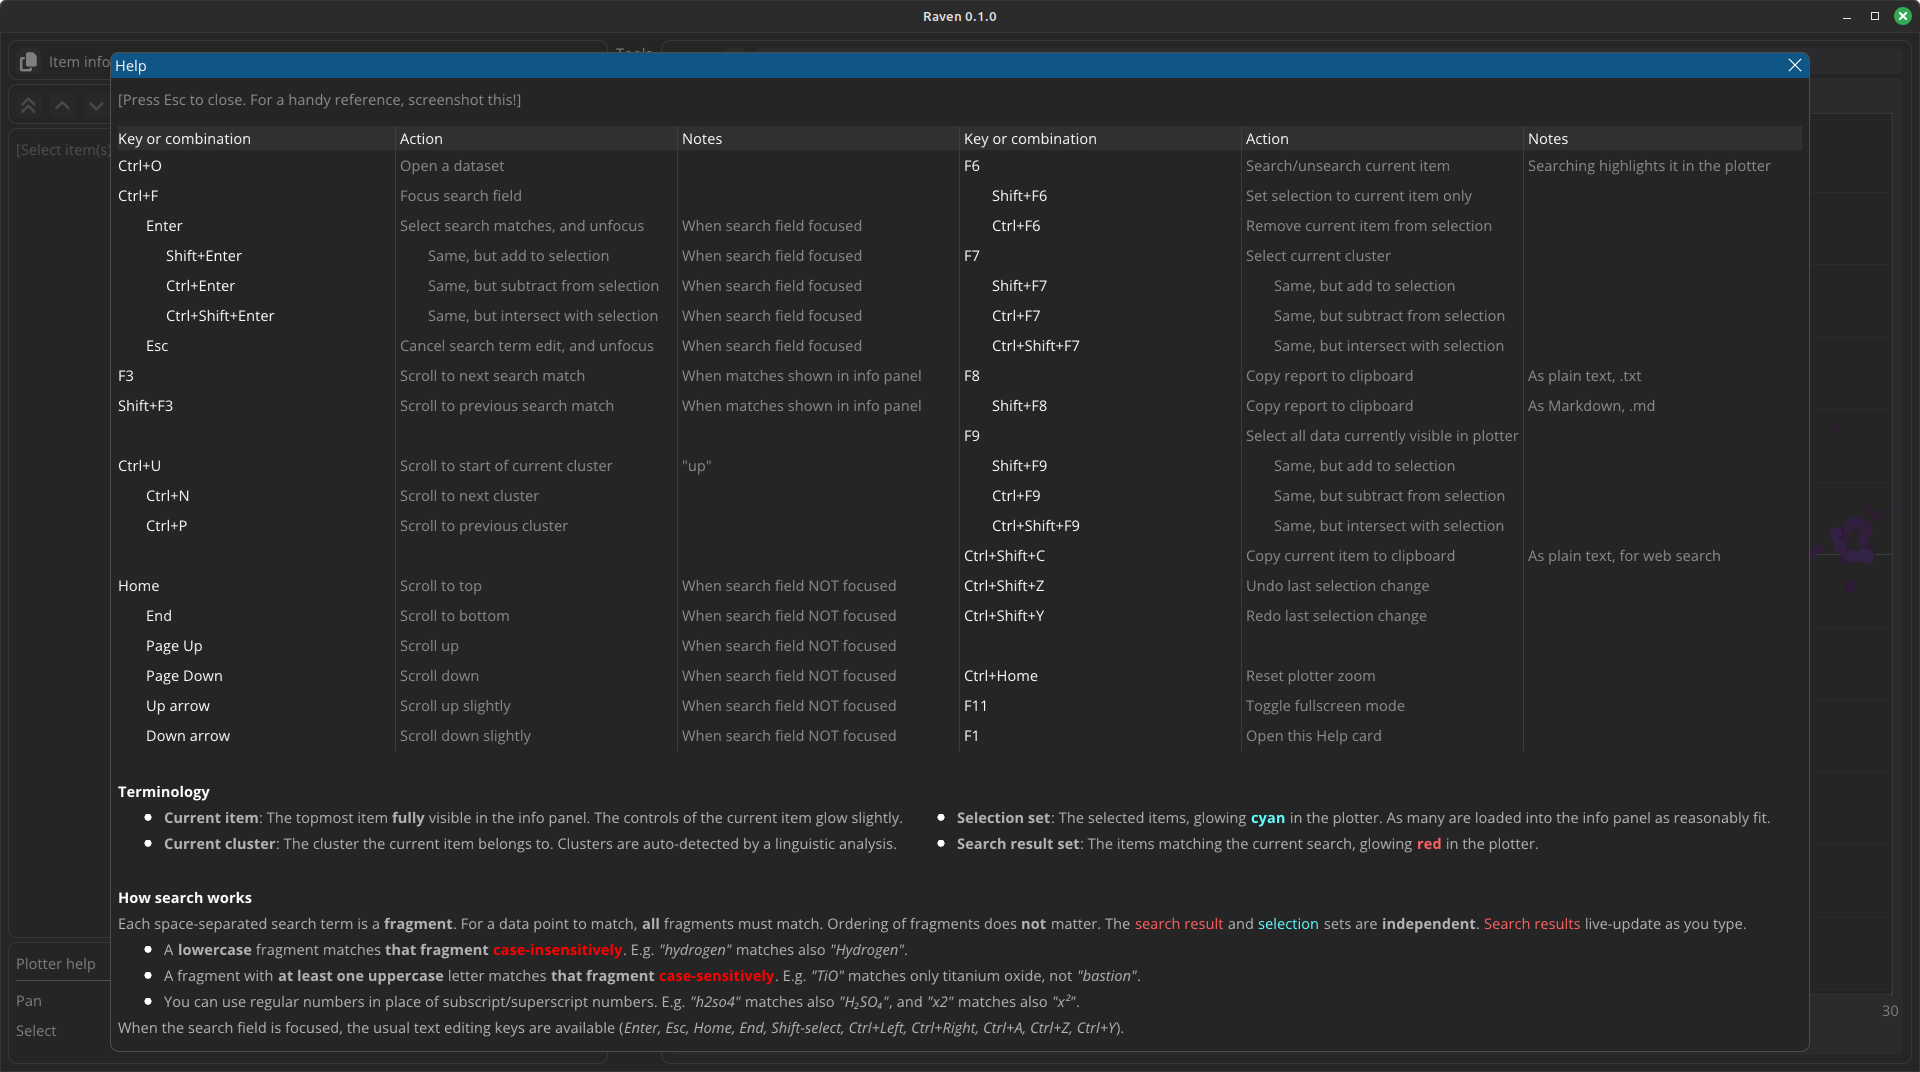
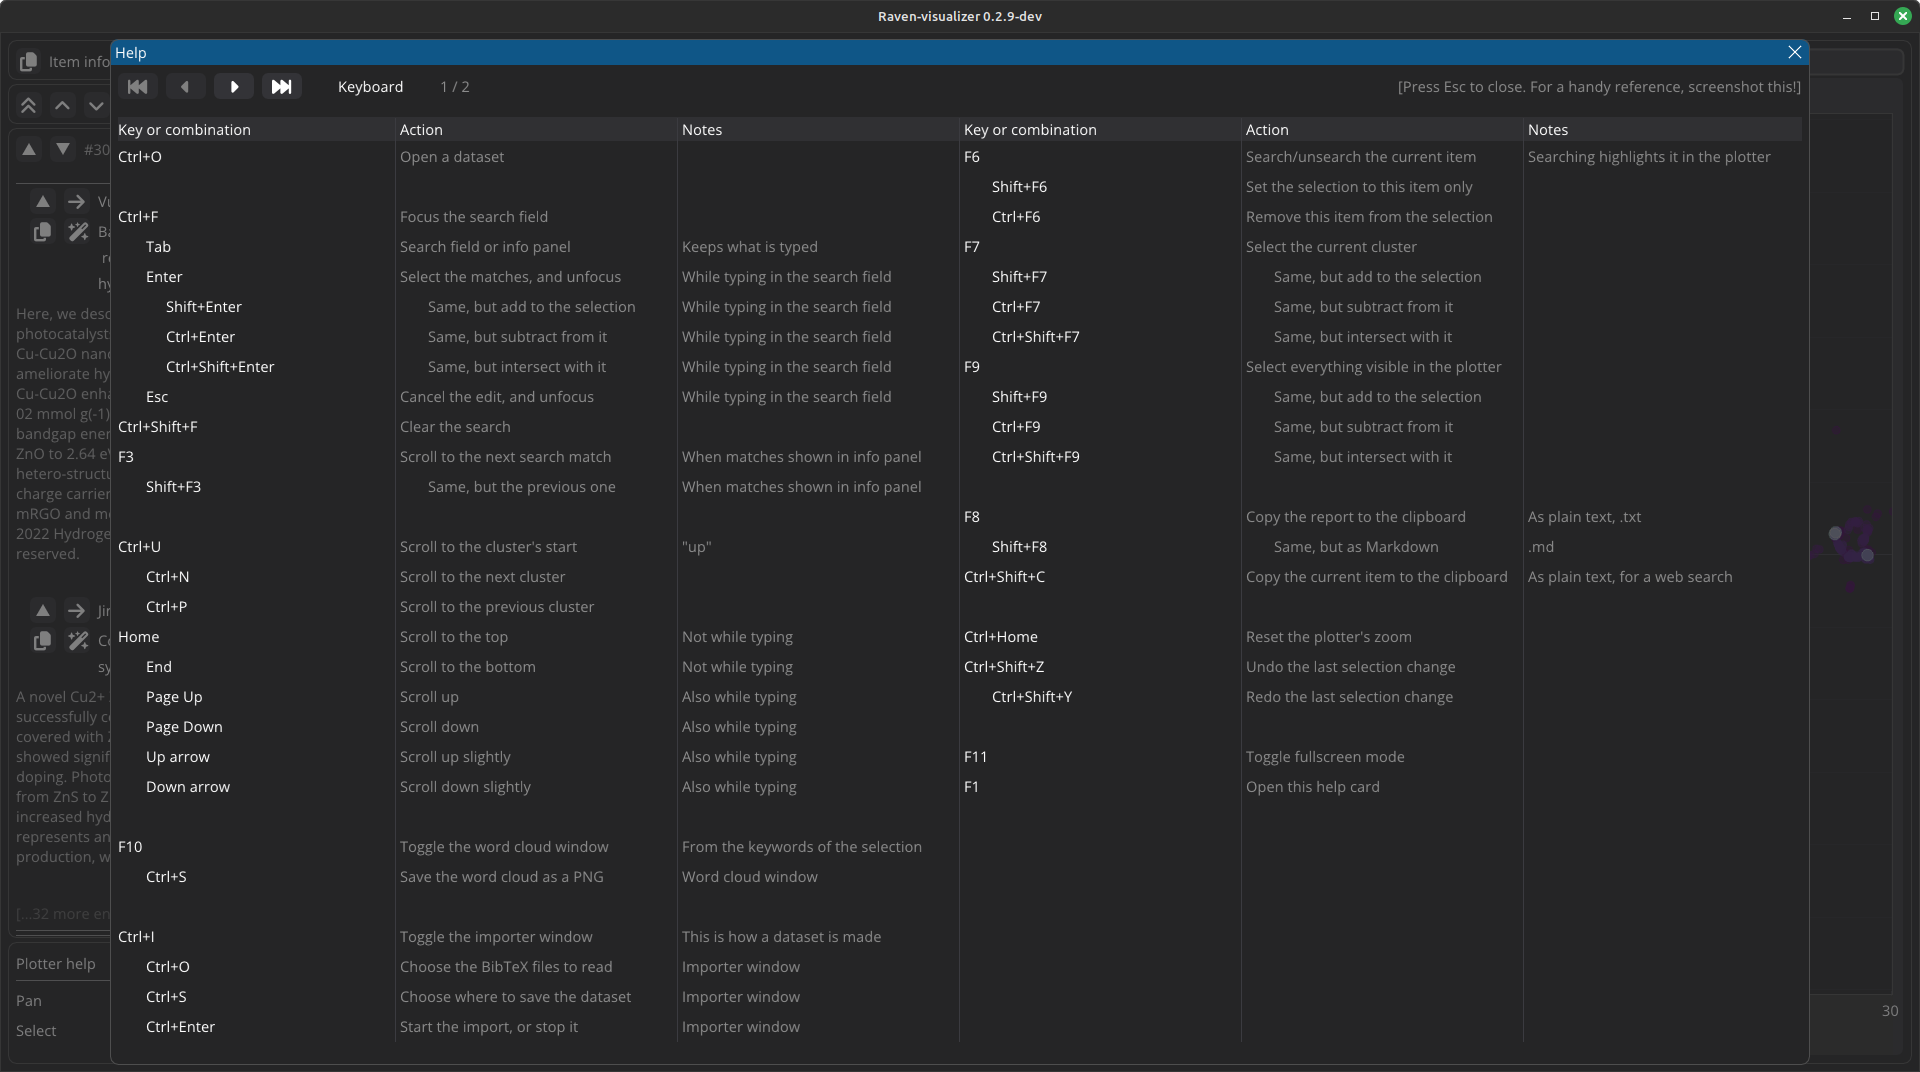
Visualizer manual: refreshed help card; the file dialog documented once
The help card screenshot is retaken. The three screenshots of the file
dialog (opening a dataset, choosing BibTeX files, saving the dataset) are
replaced by a link to the file dialog's own manual, which shows it
properly, and removed from img/.

diff --git a/raven/visualizer/README.md b/raven/visualizer/README.md
@@ -122,12 +122,7 @@ Pressing the Ctrl+I hotkey again closes the window.
 
 ### Save imported dataset as
 
-Click on the hard disk icon (next to the heading "*Output dataset file*") in the *BibTeX import window*, or press Ctrl+S while the *BibTeX import window* is open. A **save-as dialog** opens:
-
-<p align="center">
-<img src="../../img/screenshot-save-dataset-as.png" alt="Screenshot of Raven's save-as dialog" width="800"/> <br/>
-<i>The save-as dialog for selecting a filename for the dataset to be created.</i>
-</p>
+Click on the hard disk icon (next to the heading "*Output dataset file*") in the *BibTeX import window*, or press Ctrl+S while the *BibTeX import window* is open. A **save-as dialog** opens, for choosing the filename of the dataset to be created. It is the file dialog every Raven app shares, described in [its own manual](../vendor/file_dialog/file-dialog-manual.md).
 
 Double-clicking a directory in the list goes into that directory. Double-clicking the ".." directory goes one level up.
 
@@ -151,12 +146,7 @@ Pressing Esc cancels the save-as dialog.
 
 ### Select input BibTeX files
 
-To select input files, click the folder icon (next to the heading "*Input BibTeX files*"), or press Ctrl+O while the *BibTeX import window* is open. A **file picker dialog** opens:
-
-<p align="center">
-<img src="../../img/screenshot-select-bibtex-files.png" alt="Screenshot of Raven's file picker" width="800"/> <br/>
-<i>The file picker for input BibTeX files.</i>
-</p>
+To select input files, click the folder icon (next to the heading "*Input BibTeX files*"), or press Ctrl+O while the *BibTeX import window* is open. A **file picker dialog** opens, for choosing the input BibTeX files — the same [file dialog](../vendor/file_dialog/file-dialog-manual.md).
 
 The file picker works similarly to the save-as dialog, but with a **Search files** field replacing the save-as filename field.
 
@@ -389,12 +379,7 @@ raven-visualizer
 
 ## Load a dataset file in the GUI
 
-To load your dataset file, click on the *Open dataset* button in the toolbar, or press Ctrl+O, thus bringing up this dialog:
-
-<p align="center">
-<img src="../../img/screenshot-open-file.png" alt="Screenshot of Raven's open dataset dialog" width="800"/> <br/>
-<i>Opening an imported dataset for visualization.</i>
-</p>
+To load your dataset file, click on the *Open dataset* button in the toolbar, or press Ctrl+O, which opens the [file dialog](../vendor/file_dialog/file-dialog-manual.md) for picking it.
 
 The *Open dataset* dialog is a file picker, which works similarly to the file picker in the *BibTeX import window*.
 
